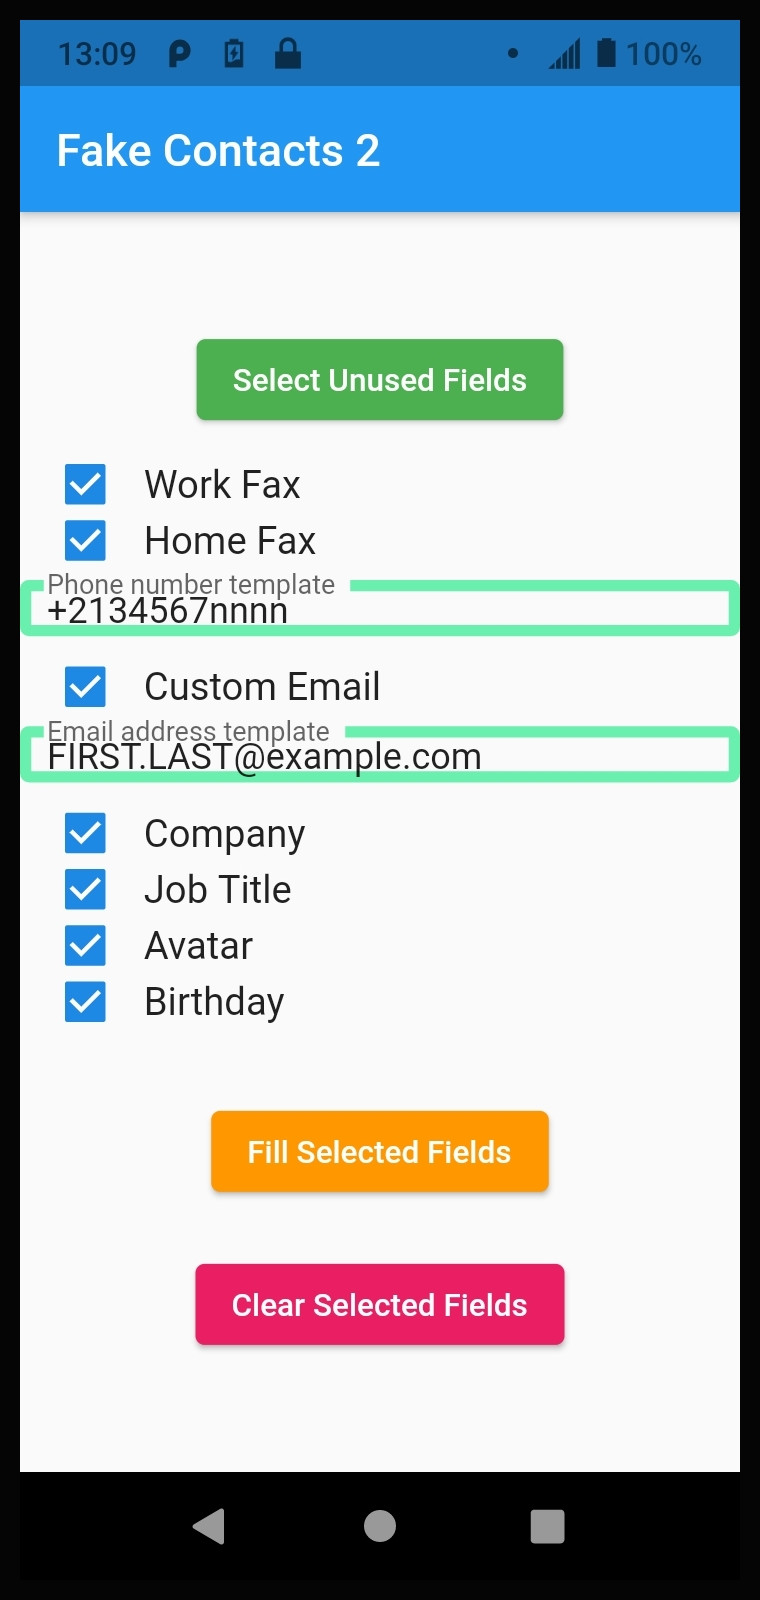
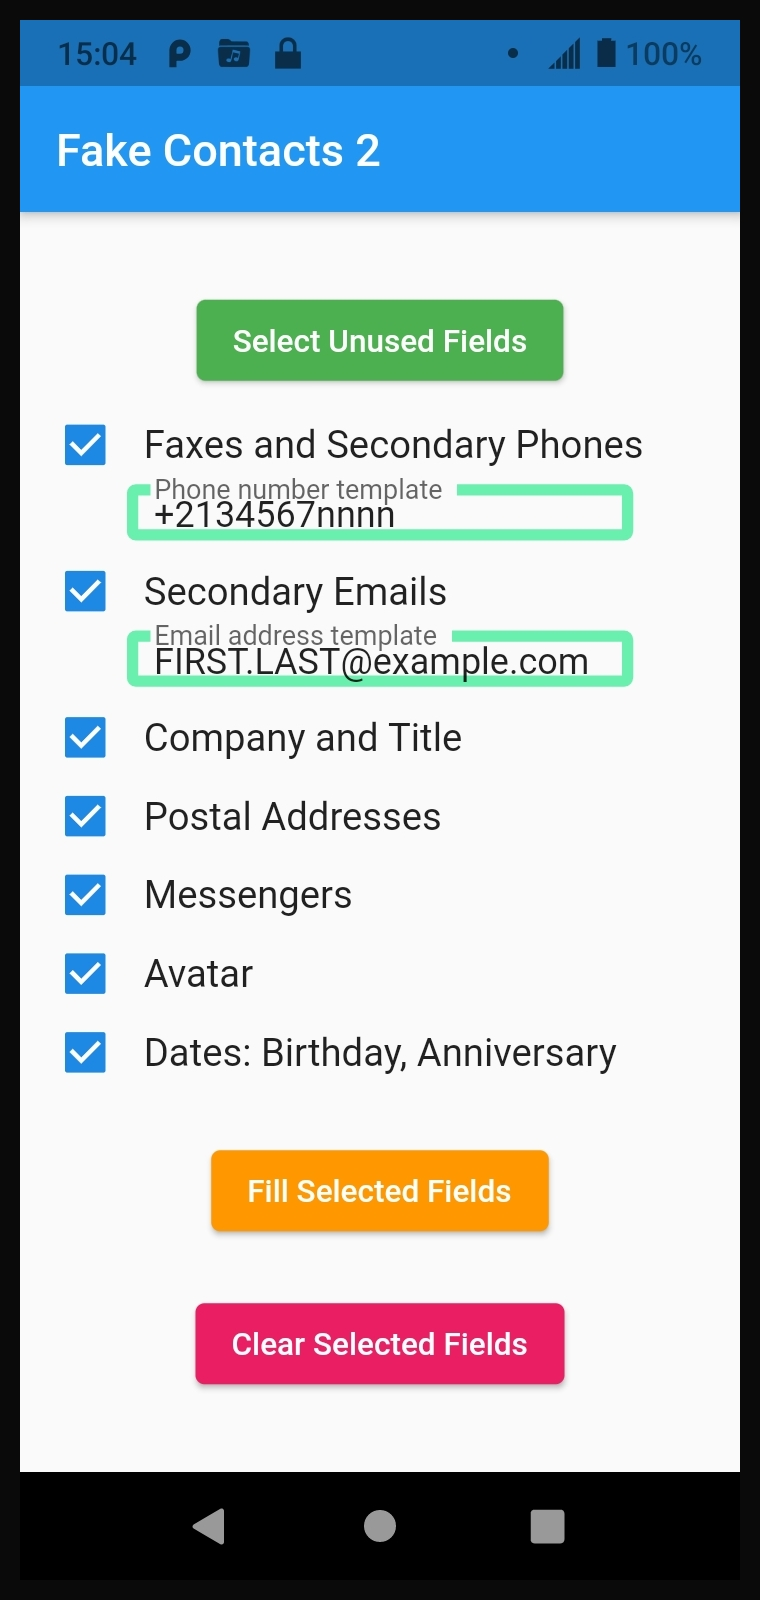
choose types of data

Changed region(s): [[0.0303, 0.1875, 0.9987, 0.875], [0.2724, 0.0, 0.3329, 0.0625], [0.1513, 0.0312, 0.1816, 0.0625]]

diff --git a/lib/main.dart b/lib/main.dart
@@ -1,6 +1,6 @@
 //import 'dart:convert';
 import 'dart:developer';
-import 'dart:ffi';
+//import 'dart:ffi';
 
 import 'package:flutter/material.dart';
 import 'package:flutter/rendering.dart';
@@ -50,13 +50,13 @@ class _MyHomePageState extends State<MyHomePage> {
     false,
     false
   ]; // aray of bools
-  static const FIELD_WORKFAX = 0;
-  static const FIELD_HOMEFAX = 1;
-  static const FIELD_CUSTOMEMAIL = 2;
-  static const FIELD_COMPANY = 3;
-  static const FIELD_TITLE = 4;
+  static const FIELD_PHONES = 0;
+  static const FIELD_POSTALADDRESSES = 1;
+  static const FIELD_EMAILS = 2;
+  static const FIELD_COMPANYANDTITLE = 3;
+  static const FIELD_MESSENGERS = 4;
   static const FIELD_AVATAR = 5;
-  static const FIELD_BIRTHDAY = 6;
+  static const FIELD_DATES = 6;
 
   Key keyPhoneNumberTemplate = Key("PhoneNumberTemplate");
   Key keyEmailAddressTemplate = Key("EmailAddressTemplate");
@@ -225,33 +225,33 @@ class _MyHomePageState extends State<MyHomePage> {
     saveFieldSelections(true);
   }
 
-  void onWorkFaxCheckboxChanged(bool bNewValue) {
-    log("onWorkFaxCheckboxChanged: called, bNewValue " + bNewValue.toString());
-    arrbFieldSelections[FIELD_WORKFAX] = bNewValue;
+  void onPhonesCheckboxChanged(bool bNewValue) {
+    log("onPhonesCheckboxChanged: called, bNewValue " + bNewValue.toString());
+    arrbFieldSelections[FIELD_PHONES] = bNewValue;
     saveFieldSelections(true);
   }
 
-  void onHomeFaxCheckboxChanged(bool bNewValue) {
-    log("onHomeFaxCheckboxChanged: called, bNewValue " + bNewValue.toString());
-    arrbFieldSelections[FIELD_HOMEFAX] = bNewValue;
+  void onAddressesCheckboxChanged(bool bNewValue) {
+    log("onAddressesCheckboxChanged: called, bNewValue " + bNewValue.toString());
+    arrbFieldSelections[FIELD_POSTALADDRESSES] = bNewValue;
     saveFieldSelections(true);
   }
 
-  void onCustomEmailCheckboxChanged(bool bNewValue) {
-    log("onCustomEmailCheckboxChanged: called, bNewValue " + bNewValue.toString());
-    arrbFieldSelections[FIELD_CUSTOMEMAIL] = bNewValue;
+  void onEmailsCheckboxChanged(bool bNewValue) {
+    log("onEmailsCheckboxChanged: called, bNewValue " + bNewValue.toString());
+    arrbFieldSelections[FIELD_EMAILS] = bNewValue;
     saveFieldSelections(true);
   }
 
-  void onCompanyCheckboxChanged(bool bNewValue) {
-    log("onCompanyCheckboxChanged: called, bNewValue " + bNewValue.toString());
-    arrbFieldSelections[FIELD_COMPANY] = bNewValue;
+  void onCompanyAndTitleCheckboxChanged(bool bNewValue) {
+    log("onCompanyAndTitleCheckboxChanged: called, bNewValue " + bNewValue.toString());
+    arrbFieldSelections[FIELD_COMPANYANDTITLE] = bNewValue;
     saveFieldSelections(true);
   }
 
-  void onTitleCheckboxChanged(bool bNewValue) {
-    log("onTitleCheckboxChanged: called, bNewValue " + bNewValue.toString());
-    arrbFieldSelections[FIELD_TITLE] = bNewValue;
+  void onMessengersCheckboxChanged(bool bNewValue) {
+    log("onMessengersCheckboxChanged: called, bNewValue " + bNewValue.toString());
+    arrbFieldSelections[FIELD_MESSENGERS] = bNewValue;
     saveFieldSelections(true);
   }
 
@@ -261,9 +261,9 @@ class _MyHomePageState extends State<MyHomePage> {
     saveFieldSelections(true);
   }
 
-  void onBirthdayCheckboxChanged(bool bNewValue) {
-    log("onBirthdayCheckboxChanged: called, bNewValue " + bNewValue.toString());
-    arrbFieldSelections[FIELD_BIRTHDAY] = bNewValue;
+  void onDatesCheckboxChanged(bool bNewValue) {
+    log("onDatesCheckboxChanged: called, bNewValue " + bNewValue.toString());
+    arrbFieldSelections[FIELD_DATES] = bNewValue;
     saveFieldSelections(true);
   }
 
@@ -307,37 +307,16 @@ class _MyHomePageState extends State<MyHomePage> {
                 children: <Widget>[
                   SizedBox(width: BEFORECHECKBOX), //SizedBox
                   Checkbox(
-                    value: arrbFieldSelections[FIELD_WORKFAX],
+                    value: arrbFieldSelections[FIELD_PHONES],
                     onChanged: (bool value) {
                       setState(() {
-                        onWorkFaxCheckboxChanged(value);
+                        onPhonesCheckboxChanged(value);
                       });
                     },
                   ), //Checkbox
                   SizedBox(width: AFTERCHECKBOX), //SizedBox
                   Text(
-                    'Work Fax',
-                    style: TextStyle(fontSize: TEXTSIZE),
-                  ), //Text
-                ], //<Widget>[]
-              ), //Row
-            ),
-            Container(
-              height: ROWHEIGHT,
-              child: Row(
-                children: <Widget>[
-                  SizedBox(width: BEFORECHECKBOX), //SizedBox
-                  Checkbox(
-                    value: arrbFieldSelections[FIELD_HOMEFAX],
-                    onChanged: (bool value) {
-                      setState(() {
-                        onHomeFaxCheckboxChanged(value);
-                      });
-                    },
-                  ), //Checkbox
-                  SizedBox(width: AFTERCHECKBOX), //SizedBox
-                  Text(
-                    'Home Fax',
+                    'Faxes and Secondary Phones',
                     style: TextStyle(fontSize: TEXTSIZE),
                   ), //Text
                 ], //<Widget>[]
@@ -372,16 +351,16 @@ class _MyHomePageState extends State<MyHomePage> {
                 children: <Widget>[
                   SizedBox(width: BEFORECHECKBOX), //SizedBox
                   Checkbox(
-                    value: arrbFieldSelections[FIELD_CUSTOMEMAIL],
+                    value: arrbFieldSelections[FIELD_EMAILS],
                     onChanged: (bool value) {
                       setState(() {
-                        onCustomEmailCheckboxChanged(value);
+                        onEmailsCheckboxChanged(value);
                       });
                     },
                   ), //Checkbox
                   SizedBox(width: AFTERCHECKBOX), //SizedBox
                   Text(
-                    'Custom Email',
+                    'Secondary Emails',
                     style: TextStyle(fontSize: TEXTSIZE),
                   ), //Text
                 ], //<Widget>[]
@@ -416,21 +395,44 @@ class _MyHomePageState extends State<MyHomePage> {
                 children: <Widget>[
                   SizedBox(width: BEFORECHECKBOX), //SizedBox
                   Checkbox(
-                    value: arrbFieldSelections[FIELD_COMPANY],
+                    value: arrbFieldSelections[FIELD_COMPANYANDTITLE],
                     onChanged: (bool value) {
                       setState(() {
-                        onCompanyCheckboxChanged(value);
+                        onCompanyAndTitleCheckboxChanged(value);
                       });
                     },
                   ), //Checkbox
                   SizedBox(width: AFTERCHECKBOX), //SizedBox
                   Text(
-                    'Company',
+                    'Company and Title',
                     style: TextStyle(fontSize: TEXTSIZE),
                   ), //Text
                 ], //<Widget>[]
               ), //Row
             ),
+            SizedBox(height: 10),
+            Container(
+              height: ROWHEIGHT,
+              child: Row(
+                children: <Widget>[
+                  SizedBox(width: BEFORECHECKBOX), //SizedBox
+                  Checkbox(
+                    value: arrbFieldSelections[FIELD_POSTALADDRESSES],
+                    onChanged: (bool value) {
+                      setState(() {
+                        onAddressesCheckboxChanged(value);
+                      });
+                    },
+                  ), //Checkbox
+                  SizedBox(width: AFTERCHECKBOX), //SizedBox
+                  Text(
+                    'Postal Addresses',
+                    style: TextStyle(fontSize: TEXTSIZE),
+                  ), //Text
+                ], //<Widget>[]
+              ), //Row
+            ),
+            SizedBox(height: 10),
             Container(
               height: ROWHEIGHT,
               child: Row(
@@ -440,21 +442,22 @@ class _MyHomePageState extends State<MyHomePage> {
                   ), //SizedBox
                   /** Checkbox Widget **/
                   Checkbox(
-                    value: arrbFieldSelections[FIELD_TITLE],
+                    value: arrbFieldSelections[FIELD_MESSENGERS],
                     onChanged: (bool value) {
                       setState(() {
-                        onTitleCheckboxChanged(value);
+                        onMessengersCheckboxChanged(value);
                       });
                     },
                   ), //Checkbox
                   SizedBox(width: AFTERCHECKBOX), //SizedBox
                   Text(
-                    'Job Title',
+                    'Messengers',
                     style: TextStyle(fontSize: TEXTSIZE),
                   ), //Text
                 ], //<Widget>[]
               ), //Row
             ),
+            SizedBox(height: 10),
             Container(
               height: ROWHEIGHT,
               child: Row(
@@ -479,6 +482,7 @@ class _MyHomePageState extends State<MyHomePage> {
                 ], //<Widget>[]
               ), //Row
             ),
+            SizedBox(height: 10),
             Container(
               height: ROWHEIGHT,
               child: Row(
@@ -488,23 +492,23 @@ class _MyHomePageState extends State<MyHomePage> {
                   ), //SizedBox
                   /** Checkbox Widget **/
                   Checkbox(
-                    value: arrbFieldSelections[FIELD_BIRTHDAY],
+                    value: arrbFieldSelections[FIELD_DATES],
                     onChanged: (bool value) {
                       setState(() {
-                        onBirthdayCheckboxChanged(value);
+                        onDatesCheckboxChanged(value);
                       });
                     },
                   ), //Checkbox
                   SizedBox(width: AFTERCHECKBOX), //SizedBox
                   Text(
-                    'Birthday',
+                    'Dates: Birthday, Anniversary',
                     style: TextStyle(fontSize: TEXTSIZE),
                   ), //Text
                 ], //<Widget>[]
               ), //Row
             ),
             SizedBox(
-              height: 30,
+              height: 25,
             ),
             ElevatedButton(
               onPressed: () => _setFieldsOfAllContacts(true),
